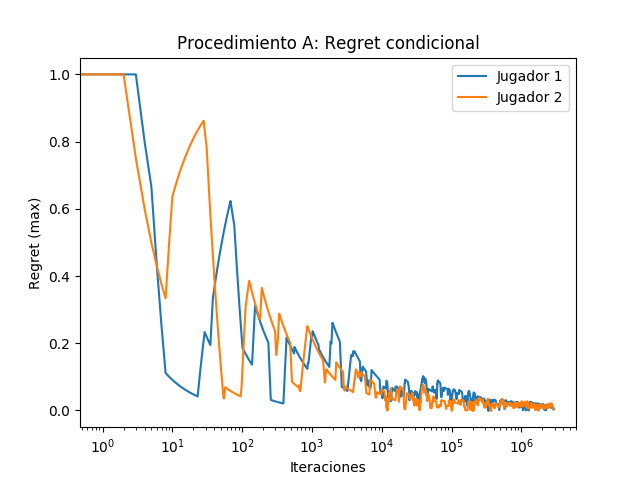
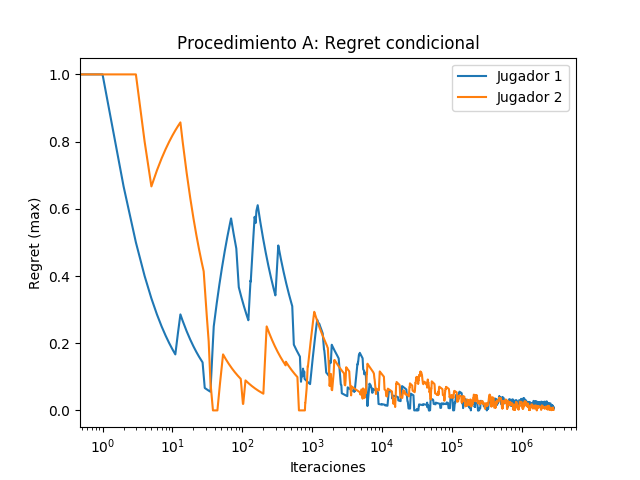
Correciones, capítulo 2

Changed region(s): [[0.1562, 0.1562, 0.875, 0.875], [0.4688, 0.9062, 0.5, 0.9375]]

diff --git a/capitulo-2/resultados.tex b/capitulo-2/resultados.tex
@@ -5,27 +5,27 @@ Para todos los juegos, con excepción del juego Coronel Blotto, se presenta una 
 \begin{alignat}{1}
 min_{s_{-i} \in S_{-i}} u_i(\sigma_i, s_{-i})
 \end{alignat}
-Donde $u_i(\sigma_i, s_{-i})$ representa la utilidad esperada del jugador $i$, cuando juega con la estrategia mixta $\sigma_i$ y su oponente juega con la estrategia pura $s_i$. Estos valores son representados con las variables $v_1$ y $v_2$ en cada una de las tablas con las estrategias respectivas.
+Donde $u_i(\sigma_i, s_{-i})$ representa la utilidad esperada del jugador $i$, cuando juega con la estrategia mixta $\sigma_i$ y su oponente juega con la estrategia pura $s_{-i}$. Estos valores son representados con las variables $v_1$ y $v_2$ en cada una de las tablas con las estrategias respectivas.
 
-Por otra parte, para todos los juegos se presenta una tabla que indica el tiempo de cada corrida ($T$), el número de iteraciones para alcanzar la cota deseada ($I$) y el tiempo promedio de cada iteración en cada una de las corridas ($T/I$), así como el promedio del tiempo y del número de iteraciones para cada procedimiento. Además, también se muestran las gráficas del regret por iteraciones, para observar su convergencia. Estas gráficas se presentan en una escala logarítmica en el eje $x$ para apreciar mejor los resultados.
+Por otra parte, para todos los juegos se presenta una tabla que indica el tiempo de cada corrida ($T$), el número de iteraciones para alcanzar la cota deseada ($I$) y el tiempo promedio de cada iteración en cada una de las corridas ($T/I$), así como el promedio del tiempo y del número de iteraciones para cada procedimiento. Además, también se muestran las gráficas del \textit{regret} por iteraciones, para observar su convergencia. Estas gráficas se presentan en una escala logarítmica en el eje $x$ para apreciar mejor los resultados.
 
 \subsection{Matching Pennies}
-En este juego ambos jugadores pueden garantizar una utilidad esperada de $0$, sin importar la estrategia utilizada por su oponente, que se obtiene al jugar con una estrategia de $0.5$ para ambas acciones posibles de cada jugador. Las estrategias obtenidas no corresponden al equilibrio de Nash exacto, sin embargo, garantizan una utilidad cercana a $0$ en todos los casos, siendo la más baja igual a $-0.01$, como se muestra en la Tabla \ref{tab:estrategias-matching-pennies}.
+En este juego ambos jugadores pueden garantizar una utilidad esperada de $0$, sin importar la estrategia utilizada por su oponente, que se obtiene al jugar con una estrategia de $0.5$ para ambas acciones posibles de cada jugador. Las estrategias obtenidas no corresponden al equilibrio de Nash exacto, sin embargo, garantizan una utilidad cercana a $0$ en todos los casos, siendo la más baja igual a $-0.008$, como se muestra en la Tabla \ref{tab:estrategias-matching-pennies}.
 
 \begin{table}[ht]
     \centering
     \begin{tabular}{c|c|c|c|c}
         & E.N. & A & B & C \\ \hline
-        $\sigma_1$   & $(0.500, 0.500)$ & $( 0.505, 0.495)$ & $( 0.504, 0.496)$ & $(0.500,  0.500)$ \\
-        $\sigma_2$   & $(0.500, 0.500)$ & $( 0.500, 0.500)$ & $( 0.500, 0.500)$ & $(0.505,  0.495)$ \\ \hline
-        $(v_1, v_2)$ & $(0.000, 0.000)$ & $(-0.010, 0.000)$ & $(-0.008, 0.000)$ & $(0.000, -0.010)$ \\ \hline
+        $\sigma_1$   & $(0.500, 0.500)$ & $(0.500, 0.500)$ & $(0.500, 0.500)$ & $(0.500,  0.500)$ \\
+        $\sigma_2$   & $(0.500, 0.500)$ & $(0.497, 0.503)$ & $(0.503, 0.497)$ & $(0.504,  0.496)$ \\ \hline
+        $(v_1, v_2)$ & $(0.000, 0.000)$ & $(0.000, -0.006)$ & $(0.000, -0.006)$ & $(0.000, -0.008)$ \\ \hline
     \end{tabular}
     \caption{Estrategias obtenidas del juego Matching Pennies}
     \label{tab:estrategias-matching-pennies}
 \end{table}
 
 
-La Tabla \ref{tab:resultados-matching-pennies} muestra los resultados obtenidos relacionados al tiempo y número de iteraciones de los procedimientos. El procedimiento A, regret condicional, tuvo una duración promedio de $85.314$ segundos, con un número promedio de iteraciones de $5609971.5$, obteniendo un promedio de $1.52 {\times} 10^{-5}$ segundos por iteración. Con el procedimiento B, que utiliza un vector invariante de probabilidad, se obtuvo un tiempo, número de iteraciones y tiempo por iteración promedios de $3.503$ segundos, $30277.9$ iteraciones y $1.16 {\times} 10^{-4}$ segundos por iteración, respectivamente. Por último, el procedimiento C, regret incondicional, se obtuvo un tiempo promedio de $0.217$, el número de iteraciones promedio fue de $14806.8$, obteniendo un promedio de $1.47 {\times} 10^{-5}$ segundos por iteración. 
+La Tabla \ref{tab:resultados-matching-pennies} muestra los resultados obtenidos relacionados al tiempo y número de iteraciones de los procedimientos. El procedimiento A, regret condicional, tuvo una duración promedio de $10.276$ segundos, con un número promedio de iteraciones de $3892550.4$, obteniendo un promedio de $2.64 {\times} 10^{-6}$ segundos por iteración. Con el procedimiento B, que utiliza un vector invariante de probabilidad, se obtuvo un tiempo, número de iteraciones y tiempo por iteración promedios de $3.777$ segundos, $25616.6$ iteraciones y $3.03 {\times} 10^{-5}$ segundos por iteración, respectivamente. Por último, el procedimiento C, regret incondicional, se obtuvo un tiempo promedio de $0.042$, el número de iteraciones promedio fue de $16260.5$, obteniendo un promedio de $2.58 {\times} 10^{-6}$ segundos por iteración. 
 
 \begin{table}[ht]
 \scriptsize
@@ -33,23 +33,23 @@ La Tabla \ref{tab:resultados-matching-pennies} muestra los resultados obtenidos 
     \begin{tabular}{r r r | r r r | r r r}
     \multicolumn{3}{c}{A} & \multicolumn{3}{c}{B} & \multicolumn{3}{c}{C} \\ \hline
     $T$ & $I$ & $T/I$ & $T$ & $I$ & $T/I$ & $T$ & $I$ & $T/I$ \\  \hline
-    $375.559$ & $24597798$ & $1.53 {\times} 10 ^{-5}$ & $10.616$ & $91683$ & $1.16 {\times} 10 ^{-4}$ & $0.155$ & $10553$ & $1.47 {\times} 10 ^{-5}$ \\
-    $20.442$ & $1349708$ & $1.51 {\times} 10 ^{-5}$ & $2.407$ & $20797$ & $1.16 {\times} 10 ^{-4}$ & $0.173$ & $11847$ & $1.46 {\times} 10 ^{-5}$ \\
-    $22.030$ & $1455882$ & $1.51 {\times} 10 ^{-5}$ & $1.465$ & $12674$ & $1.16 {\times} 10 ^{-4}$ & $0.048$ & $3302$ & $1.46 {\times} 10 ^{-5}$ \\
-    $39.273$ & $2591911$ & $1.52 {\times} 10 ^{-5}$ & $0.529$ & $4576$ & $1.16 {\times} 10 ^{-4}$ & $0.047$ & $3201$ & $1.46 {\times} 10 ^{-5}$ \\
-    $141.703$ & $9307528$ & $1.52 {\times} 10 ^{-5}$ & $9.403$ & $81270$ & $1.16 {\times} 10 ^{-4}$ & $0.373$ & $25370$ & $1.47 {\times} 10 ^{-5}$ \\
-    $73.271$ & $4837112$ & $1.51 {\times} 10 ^{-5}$ & $1.453$ & $12570$ & $1.16 {\times} 10 ^{-4}$ & $0.453$ & $30866$ & $1.47 {\times} 10 ^{-5}$ \\
-    $21.917$ & $1451479$ & $1.51 {\times} 10 ^{-5}$ & $0.692$ & $6017$ & $1.15 {\times} 10 ^{-4}$ & $0.147$ & $10040$ & $1.47 {\times} 10 ^{-5}$ \\
-    $10.238$ & $678965$ & $1.51 {\times} 10 ^{-5}$ & $4.205$ & $36371$ & $1.16 {\times} 10 ^{-4}$ & $0.263$ & $17963$ & $1.46 {\times} 10 ^{-5}$ \\
-    $61.776$ & $4087347$ & $1.51 {\times} 10 ^{-5}$ & $2.201$ & $19018$ & $1.16 {\times} 10 ^{-4}$ & $0.193$ & $13176$ & $1.47 {\times} 10 ^{-5}$ \\
-    $86.932$ & $5741985$ & $1.51 {\times} 10 ^{-5}$ & $2.057$ & $17803$ & $1.16 {\times} 10 ^{-4}$ & $0.319$ & $21750$ & $1.47 {\times} 10 ^{-5}$ \\ \hline
-    $85.314$ & $5609971.5$ & $1.52 {\times} 10 ^{-5}$ & $3.503$ & $30277.9$ & $1.16 {\times} 10 ^{-4}$ & $0.217$ & $14806.8$ & $1.47 {\times} 10 ^{-5}$ \\ \hline
+	$7.663$ & $3068341$ & $2.50 {\times} 10^{-06}$ & $0.985$ & $32510$ & $3.03 {\times} 10^{-05}$ & $0.002$ & $955$ & $2.53 {\times} 10^{-06}$ \\
+	$9.650$ & $3857071$ & $2.50 {\times} 10^{-06}$ & $1.748$ & $56946$ & $3.07 {\times} 10^{-05}$ & $0.064$ & $24968$ & $2.55 {\times} 10^{-06}$ \\
+	$23.313$ & $8950013$ & $2.60 {\times} 10^{-06}$ & $0.552$ & $18401$ & $3.00 {\times} 10^{-05}$ & $0.061$ & $23854$ & $2.57 {\times} 10^{-06}$ \\
+	$11.757$ & $4240611$ & $2.77 {\times} 10^{-06}$ & $0.309$ & $10197$ & $3.03 {\times} 10^{-05}$ & $0.025$ & $9724$ & $2.57 {\times} 10^{-06}$ \\
+	$2.377$ & $877335$ & $2.71 {\times} 10^{-06}$ & $0.747$ & $24892$ & $3.00 {\times} 10^{-05}$ & $0.011$ & $4188$ & $2.59 {\times} 10^{-06}$ \\
+	$5.062$ & $1818992$ & $2.78 {\times} 10^{-06}$ & $0.848$ & $28142$ & $3.01 {\times} 10^{-05}$ & $0.025$ & $9666$ & $2.60 {\times} 10^{-06}$ \\
+	$4.281$ & $1557496$ & $2.75 {\times} 10^{-06}$ & $0.132$ & $4405$ & $3.01 {\times} 10^{-05}$ & $0.045$ & $16951$ & $2.64 {\times} 10^{-06}$ \\
+	$22.110$ & $8230100$ & $2.69 {\times} 10^{-06}$ & $1.307$ & $43116$ & $3.03 {\times} 10^{-05}$ & $0.021$ & $8155$ & $2.64 {\times} 10^{-06}$ \\
+	$3.691$ & $1432846$ & $2.58 {\times} 10^{-06}$ & $0.639$ & $21311$ & $3.00 {\times} 10^{-05}$ & $0.093$ & $35270$ & $2.64 {\times} 10^{-06}$ \\
+	$12.853$ & $4892699$ & $2.63 {\times} 10^{-06}$ & $0.500$ & $16246$ & $3.08 {\times} 10^{-05}$ & $0.076$ & $28874$ & $2.64 {\times} 10^{-06}$ \\ \hline
+	$10.276$ & $3892550.4$ & $2.64 {\times} 10^{-06}$ & $0.777$ & $25616.6$ & $3.03 {\times} 10^{-05}$ & $0.042$ & $16260.5$ & $2.58 {\times} 10^{-06}$ \\ \hline
     \end{tabular}
     \caption{Resultados del juego Matching Pennies}
     \label{tab:resultados-matching-pennies}
 \end{table}
 
-La Figura \ref{fig:regret-matching-pennies} muestra el regret incondicional con respecto al tiempo de la última corrida, para los $3$ procedimientos.
+La Figura \ref{fig:regret-matching-pennies} muestra el regret incondicional con respecto al tiempo de la última corrida, para los $3$ procedimientos. Se observa que en todos los casos el \textit{regret} total de cada jugador converge a cero.
 
 \begin{figure}[ht]
 \caption{Gráficas del regret con respecto al número de iteraciones del juego Matching Pennies}
@@ -69,39 +69,38 @@ En este juego, al igual que en el anterior, ambos jugadores pueden garantizar un
     \scriptsize
     \begin{tabular}{c|c|c|c|c}
         & E.N. & A & B & C \\ \hline
-        $\sigma_1$ &  $(0.333, 0.333, 0.333)$ & $(0.330, 0.333, 0.337)$ & $(0.333, 0.333, 0.333)$ & $(0.333, 0.334, 0.333)$ \\
-        $\sigma_2$ &  $(0.333, 0.333, 0.333)$ & $(0.335, 0.330, 0.335)$ & $(0.333, 0.333, 0.333)$ & $(0.335, 0.338, 0.327)$ \\ \hline
-        $(v_1, v_2)$ & $(0.000, 0.000)$ & $(-0.004, -0.005)$ & $(0.000, 0.000)$ & $(-0.001, -0.008)$ \\ \hline
+        $\sigma_1$ &  $(0.333, 0.333, 0.333)$ & $(0.332, 0.335, 0.332)$ & $(0.330, 0.334, 0.336)$ & $(0.333, 0.337, 0.330)$ \\
+        $\sigma_2$ &  $(0.333, 0.333, 0.333)$ & $(0.331, 0.334, 0.335)$ & $(0.329, 0.335, 0.337)$ & $(0.336, 0.330, 0.335)$ \\ \hline
+        $(v_1, v_2)$ & $(0.000, 0.000)$ & $(-0.003, -0.003)$ & $(-0.004, -0.006)$ & $(-0.004, -0.005)$ \\ \hline
     \end{tabular}
     \caption{Estrategias obtenidas del juego Piedra, Papel o Tijeras}
     \label{tab:estrategias-RPS}
 \end{table}
 
-La Tabla \ref{tab:resultados-RPS} muestra los resultados obtenidos relacionados al tiempo y número de iteraciones de los procedimientos. El procedimiento A, regret condicional, tuvo una duración promedio de $56.231$ segundos, con un número promedio de iteraciones de $3671952.7$, obteniendo un promedio de $1.53 {\times} 10^{-5}$ segundos por iteración. Con el procedimiento B, que utiliza un vector invariante de probabilidad, se obtuvo un tiempo, número de iteraciones y tiempo por iteración promedios de $1.732$ segundos, $1007$ iteraciones y $1.73 {\times} 10^{-4}$ segundos por iteración, respectivamente. Por último, el procedimiento C, regret incondicional, se obtuvo un tiempo promedio de $0.449$, el número de iteraciones promedio fue de $30293.6$, obteniendo un promedio de $1.48 {\times} 10^{-5}$ segundos por iteración.
+La Tabla \ref{tab:resultados-RPS} muestra los resultados obtenidos relacionados al tiempo y número de iteraciones de los procedimientos. El procedimiento A, \textit{regret} condicional, tuvo una duración promedio de $25.715$ segundos, con un número promedio de iteraciones de $4519054.1$, obteniendo un promedio de $2.7 {\times} 10^{-6}$ segundos por iteración. Con el procedimiento B, que utiliza un vector invariante de probabilidad, se obtuvo un tiempo, número de iteraciones y tiempo por iteración promedios de $0.345$ segundos, $6601.3$ iteraciones y $5.23 {\times} 10^{-5}$ segundos por iteración, respectivamente. Por último, el procedimiento C, \textit{regret} incondicional, se obtuvo un tiempo promedio de $0.049$, el número de iteraciones promedio fue de $19321.1$, obteniendo un promedio de $2.54 {\times} 10^{-6}$ segundos por iteración.
 
 \begin{table}[ht]
     \scriptsize
     \centering
     \begin{tabular}{r r r | r r r | r r r}
     \multicolumn{3}{c}{A} & \multicolumn{3}{c}{B} & \multicolumn{3}{c}{C} \\ \hline
-    $T$ & $I$ & $T/I$ & $T$ & $I$ & $T/I$ & $T$ & $I$ & $T/I$ \\  \hline
-    $64.6323$ & $4222223$ & $1.53 {\times} 10 ^{-5}$ & $0.000448982$ & $3$ & $1.50 {\times} 10 ^{-4}$ & $0.913989$ & $61642$ & $1.48 {\times} 10 ^{-5}$ \\
-    $23.6302$ & $1549016$ & $1.53 {\times} 10 ^{-5}$ & $3.53961$ & $20371$ & $1.74 {\times} 10 ^{-4}$ & $0.16622$ & $11228$ & $1.48 {\times} 10 ^{-5}$ \\
-    $99.8796$ & $6513228$ & $1.53 {\times} 10 ^{-5}$ & $0.774109$ & $4494$ & $1.72 {\times} 10 ^{-4}$ & $0.722437$ & $48801$ & $1.48 {\times} 10 ^{-5}$ \\
-    $79.7865$ & $5192787$ & $1.54 {\times} 10 ^{-5}$ & $0.684216$ & $3951$ & $1.73 {\times} 10 ^{-4}$ & $0.314035$ & $21037$ & $1.49 {\times} 10 ^{-5}$ \\
-    $23.5387$ & $1544402$ & $1.52 {\times} 10 ^{-5}$ & $0.000385862$ & $3$ & $1.29 {\times} 10 ^{-4}$ & $0.394145$ & $26588$ & $1.48 {\times} 10 ^{-5}$ \\
-    $15.1729$ & $998763$ & $1.52 {\times} 10 ^{-5}$ & $0.000436849$ & $3$ & $1.46 {\times} 10 ^{-4}$ & $0.362224$ & $24441$ & $1.48 {\times} 10 ^{-5}$ \\
-    $49.3657$ & $3234372$ & $1.53 {\times} 10 ^{-5}$ & $6.0129$ & $34711$ & $1.73 {\times} 10 ^{-4}$ & $0.249781$ & $16869$ & $1.48 {\times} 10 ^{-5}$ \\
-    $37.4907$ & $2448062$ & $1.53 {\times} 10 ^{-5}$ & $2.32126$ & $13362$ & $1.74 {\times} 10 ^{-4}$ & $0.620189$ & $41841$ & $1.48 {\times} 10 ^{-5}$ \\
-    $124.844$ & $8144322$ & $1.53 {\times} 10 ^{-5}$ & $3.98568$ & $23166$ & $1.72 {\times} 10 ^{-4}$ & $0.369477$ & $24980$ & $1.48 {\times} 10 ^{-5}$ \\
-    $43.9675$ & $2872352$ & $1.53 {\times} 10 ^{-5}$ & $0.00085012$ & $6$ & $1.42 {\times} 10 ^{-4}$ & $0.378752$ & $25509$ & $1.48 {\times} 10 ^{-5}$ \\ \hline
-    $56.231$ & $3671952.7$ & $1.53 {\times} 10 ^{-5}$ & $1.732$ & $10007$ & $1.73 {\times} 10 ^{-4}$ & $0.449$ & $30293.6$ & $1.48 {\times} 10 ^{-5}$ \\\hline
+    $25.715$ & $9107389$ & $2.82 {\times} 10^{-06}$ & $0.724$ & $13750$ & $5.26 {\times} 10^{-05}$ & $0.034$ & $12967$ & $2.64 {\times} 10^{-06}$ \\
+    $29.494$ & $10951479$ & $2.69 {\times} 10^{-06}$ & $0.692$ & $13257$ & $5.22 {\times} 10^{-05}$ & $0.041$ & $16096$ & $2.57 {\times} 10^{-06}$ \\
+    $7.015$ & $2641656$ & $2.66 {\times} 10^{-06}$ & $0.000$ & $6$ & $4.36 {\times} 10^{-05}$ & $0.063$ & $24423$ & $2.56 {\times} 10^{-06}$ \\
+    $4.610$ & $1748365$ & $2.64 {\times} 10^{-06}$ & $0.849$ & $16255$ & $5.22 {\times} 10^{-05}$ & $0.048$ & $18613$ & $2.56 {\times} 10^{-06}$ \\
+    $8.051$ & $3033028$ & $2.65 {\times} 10^{-06}$ & $0.000$ & $3$ & $4.28 {\times} 10^{-05}$ & $0.082$ & $32222$ & $2.55 {\times} 10^{-06}$ \\
+    $9.870$ & $3717278$ & $2.66 {\times} 10^{-06}$ & $0.000$ & $3$ & $4.28 {\times} 10^{-05}$ & $0.084$ & $33042$ & $2.54 {\times} 10^{-06}$ \\
+    $2.749$ & $1037895$ & $2.65 {\times} 10^{-06}$ & $0.000$ & $3$ & $4.06 {\times} 10^{-05}$ & $0.049$ & $19316$ & $2.55 {\times} 10^{-06}$ \\
+    $11.971$ & $4517546$ & $2.65 {\times} 10^{-06}$ & $0.556$ & $10644$ & $5.23 {\times} 10^{-05}$ & $0.024$ & $9601$ & $2.54 {\times} 10^{-06}$ \\
+    $14.974$ & $5606070$ & $2.67 {\times} 10^{-06}$ & $0.000$ & $3$ & $3.74 {\times} 10^{-05}$ & $0.014$ & $5621$ & $2.55 {\times} 10^{-06}$ \\
+    $7.532$ & $2829835$ & $2.66 {\times} 10^{-06}$ & $0.631$ & $12089$ & $5.22 {\times} 10^{-05}$ & $0.054$ & $21310$ & $2.55 {\times} 10^{-06}$ \\ \hline
+    $12.198$ & $4519054.1$ & $2.70 {\times} 10^{-06}$ & $0.345$ & $6601.3$ & $5.23 {\times} 10^{-05}$ & $0.049$ & $19321.1$ & $2.54 {\times} 10^{-06}$ \\ \hline
     \end{tabular}
     \caption{Resultados del juego Piedra, Papel o Tijeras}
     \label{tab:resultados-RPS}
 \end{table}
 
-La Figura \ref{fig:regret-RPS} muestra el regret incondicional con respecto al tiempo de la última corrida para los procedimientos A, B y C.
+La Figura \ref{fig:regret-RPS} muestra el regret incondicional con respecto al tiempo de la última corrida para los procedimientos A, B y C. Se observa como el \textit{regret} total de ambos jugadores converge a cero.
 
 \begin{figure}[ht]
 \caption{Gráficas del regret con respecto al número de iteraciones del juego Piedra, Papel o Tijera}
@@ -114,7 +113,7 @@ La Figura \ref{fig:regret-RPS} muestra el regret incondicional con respecto al t
 
 \subsection{Dominó}
 
-En este juego, el primer jugador puede garantizar una ganancia esperada de, al menos $1/3$, por lo que el segundo jugador puede garantizar no perder más de $1/3$. A diferencia de los juegos anteriores, la matriz de pagos de este juegos no es simétrica y el primer jugador tiene ventaja sobre el segundo. Además, este juego no tiene un equilibrio de Nas único. En la Tabla \ref{tab:estrategias-RPS} se observa que las estrategias obtenidas para el primer jugador le permiten obtener una ganancia esperada de $0.330$, $0.326$ y $0.329$, respectivamente para los procedimientos A, B y C. Todos estos valores son menores que $1/3$, pero con una diferencia menor que $0.01$. Por otra parte el segundo jugador puede garantizar un valor esperado no menor que $-0.338$, $-0.335$, $-0.335$.
+En este juego, el primer jugador puede garantizar una ganancia esperada de, al menos $1/3$, por lo que el segundo jugador puede garantizar no perder más de $1/3$. A diferencia de los juegos anteriores, la matriz de pagos de este juegos no es simétrica y el primer jugador tiene ventaja sobre el segundo. Además, este juego no tiene un equilibrio de Nash único. En la Tabla \ref{tab:estrategias-RPS} se observa que las estrategias obtenidas para el primer jugador le permiten obtener una ganancia esperada al menos de $0.330$, $0.326$ y $0.329$, respectivamente para los procedimientos A, B y C. Todos estos valores son menores que $1/3$, pero con una diferencia menor que $0.01$. Por otra parte el segundo jugador puede garantizar un valor esperado no menor que $-0.338$, $-0.335$, $-0.335$.
 
 \begin{table}[ht]
     \centering
@@ -126,59 +125,59 @@ En este juego, el primer jugador puede garantizar una ganancia esperada de, al m
         & $\sigma_2$ & $(0.333, 0.000, 0.333, 0.000, 0.333, 0.000)$ &  $-0.333$\\
         \hline
         \multirow{2}{*}{A}
-        & $\sigma_1$ & $(0.149, 0.152, 0.115, 0.114, 0.181, 0.069, 0.220)$ & $0.330$ \\
-        & $\sigma_2$ & $(0.187, 0.148, 0.186, 0.147, 0.186, 0.147)$ & $-0.338$\\
+        & $\sigma_1$ & $(0.136, 0.137, 0.116, 0.118, 0.198, 0.081, 0.214)$ & $0.328$ \\
+        & $\sigma_2$ & $(0.165, 0.171, 0.163, 0.166, 0.166, 0.169)$ & $-0.338$\\
         \hline
         \multirow{2}{*}{B}
-        & $\sigma_1$ & $(0.143, 0.145, 0.138, 0.136, 0.192, 0.050, 0.196)$ & $0.326$ \\
-        & $\sigma_2$ & $(0.167, 0.165, 0.168, 0.163, 0.167, 0.168)$ & $-0.335$\\
+        & $\sigma_1$ & $(0.121, 0.118, 0.135, 0.137, 0.214, 0.078, 0.198)$ & $0.331$ \\
+        & $\sigma_2$ & $(0.157, 0.178, 0.156, 0.177, 0.157, 0.175)$ & $-0.335$\\
         \hline
         \multirow{2}{*}{C}
-        & $\sigma_1$ & $(0.128, 0.130, 0.135, 0.134, 0.202, 0.071, 0.201)$ & $0.329$ \\
-        & $\sigma_2$ & $(0.158, 0.177, 0.157, 0.175, 0.158, 0.176)$ & $-0.335$\\
+        & $\sigma_1$ & $(0.128, 0.128, 0.129, 0.134, 0.208, 0.073, 0.202)$ & $0.330$ \\
+        & $\sigma_2$ & $(0.169, 0.165, 0.168, 0.164, 0.169, 0.165)$ & $-0.334$\\
         \hline
     \end{tabular}
     \caption{Estrategias obtenidas del juego Dominó}
     \label{tab:estrategias-domino}
 \end{table}
 
-La Tabla \ref{tab:resultados-domino} muestra los resultados obtenidos relacionados al tiempo y número de iteraciones de los procedimientos de este juego. El procedimiento A, regret condicional, tuvo una duración promedio de $1520.421$ segundos, con un número promedio de iteraciones de $91116271.5$, obteniendo un promedio de $1.67 {\times} 10^{-5}$ segundos por iteración. Con el procedimiento B, que utiliza un vector invariante de probabilidad, se obtuvo un tiempo, número de iteraciones y tiempo por iteración promedios de $28.381$ segundos, $63267.8$ iteraciones y $4.49 {\times} 10^{-4}$ segundos por iteración, respectivamente. Por último, el procedimiento C, regret incondicional, se obtuvo un tiempo promedio de $1.510098$, el número de iteraciones promedio fue de $95233.3$, obteniendo un promedio de $1.59 {\times} 10^{-5}$ segundos por iteración. 
+La Tabla \ref{tab:resultados-domino} muestra los resultados obtenidos relacionados al tiempo y número de iteraciones de los procedimientos de este juego. El procedimiento A, regret condicional, tuvo una duración promedio de $319.179$ segundos, con un número promedio de iteraciones de $108319272.4$, obteniendo un promedio de $2.95 {\times} 10^{-6}$ segundos por iteración. Con el procedimiento B, que utiliza un vector invariante de probabilidad, se obtuvo un tiempo, número de iteraciones y tiempo por iteración promedios de $11.275$ segundos, $75250.2$ iteraciones y $1.5 {\times} 10^{-4}$ segundos por iteración, respectivamente. Por último, el procedimiento C, regret incondicional, se obtuvo un tiempo promedio de $0.237$, el número de iteraciones promedio fue de $84318.5$, obteniendo un promedio de $2.81 {\times} 10^{-6}$ segundos por iteración. 
 
 \begin{table}[ht]
    \scriptsize
     \centering
     \begin{tabular}{r r r | r r r | r r r}
     \multicolumn{3}{c}{A} & \multicolumn{3}{c}{B} & \multicolumn{3}{c}{C} \\ \hline
-    $T$ & $I$ & $T/I$ & $T$ & $I$ & $T/I$ & $T$ & $I$ & $T/I$ \\  \hline
-    $740.447$ & $44412293$ & $1.67 {\times} 10 ^{-5}$ & $23.2266$ & $51679$ & $4.49 {\times} 10 ^{-4}$ & $1.41241$ & $89150$ & $1.58 {\times} 10 ^{-5}$ \\
-    $1153.83$ & $69255567$ & $1.67 {\times} 10 ^{-5}$ & $33.3787$ & $74447$ & $4.48 {\times} 10 ^{-4}$ & $1.84509$ & $116261$ & $1.59 {\times} 10 ^{-5}$ \\
-    $1344.98$ & $80595152$ & $1.67 {\times} 10 ^{-5}$ & $70.0653$ & $156038$ & $4.49 {\times} 10 ^{-4}$ & $2.13461$ & $134489$ & $1.59 {\times} 10 ^{-5}$ \\
-    $2678.05$ & $160284767$ & $1.67 {\times} 10 ^{-5}$ & $23.2227$ & $51886$ & $4.48 {\times} 10 ^{-4}$ & $0.76709$ & $48213$ & $1.59 {\times} 10 ^{-5}$ \\
-    $1091.08$ & $65511893$ & $1.67 {\times} 10 ^{-5}$ & $26.4452$ & $59056$ & $4.48 {\times} 10 ^{-4}$ & $0.334749$ & $21221$ & $1.58 {\times} 10 ^{-5}$ \\
-    $365.475$ & $22030226$ & $1.66 {\times} 10 ^{-5}$ & $19.1969$ & $42825$ & $4.48 {\times} 10 ^{-4}$ & $1.98904$ & $125803$ & $1.58 {\times} 10 ^{-5}$ \\
-    $2096.08$ & $125780618$ & $1.67 {\times} 10 ^{-5}$ & $14.4957$ & $32291$ & $4.49 {\times} 10 ^{-4}$ & $1.33082$ & $83575$ & $1.59 {\times} 10 ^{-5}$ \\
-    $2835.32$ & $169464746$ & $1.67 {\times} 10 ^{-5}$ & $24.0569$ & $53610$ & $4.49 {\times} 10 ^{-4}$ & $2.35906$ & $148921$ & $1.58 {\times} 10 ^{-5}$ \\
-    $1765.15$ & $105855204$ & $1.67 {\times} 10 ^{-5}$ & $27.2148$ & $60743$ & $4.48 {\times} 10 ^{-4}$ & $0.626211$ & $38952$ & $1.61 {\times} 10 ^{-5}$ \\
-    $1133.8$ & $67972249$ & $1.67 {\times} 10 ^{-5}$ & $22.5033$ & $50103$ & $4.49 {\times} 10 ^{-4}$ & $2.3019$ & $145748$ & $1.58 {\times} 10 ^{-5}$ \\\hline
-    $1520.421$ & $91116271.5$ & $1.67 {\times} 10 ^{-5}$ & $28.381$ & $63267.8$ & $4.49 {\times} 10 ^{-4}$ & $1.510098$ & $95233.3$ & $1.59 {\times} 10 ^{-5}$ \\ \hline
+	$669.839$ & $215859538$ & $3.10 {\times} 10^{-06}$ & $4.458$ & $29721$ & $1.50 {\times} 10^{-04}$ & $0.188$ & $66700$ & $2.81 {\times} 10^{-06}$ \\
+	$309.685$ & $117568373$ & $2.63 {\times} 10^{-06}$ & $9.019$ & $60333$ & $1.49 {\times} 10^{-04}$ & $0.260$ & $92401$ & $2.82 {\times} 10^{-06}$ \\
+	$399.170$ & $152612646$ & $2.62 {\times} 10^{-06}$ & $3.646$ & $24338$ & $1.50 {\times} 10^{-04}$ & $0.212$ & $75674$ & $2.81 {\times} 10^{-06}$ \\
+	$131.570$ & $38097125$ & $3.45 {\times} 10^{-06}$ & $12.996$ & $86898$ & $1.50 {\times} 10^{-04}$ & $0.145$ & $51776$ & $2.80 {\times} 10^{-06}$ \\
+	$263.482$ & $96741015$ & $2.72 {\times} 10^{-06}$ & $4.516$ & $30170$ & $1.50 {\times} 10^{-04}$ & $0.134$ & $47862$ & $2.80 {\times} 10^{-06}$ \\
+	$203.854$ & $77156602$ & $2.64 {\times} 10^{-06}$ & $15.420$ & $103021$ & $1.50 {\times} 10^{-04}$ & $0.385$ & $136950$ & $2.81 {\times} 10^{-06}$ \\
+	$201.267$ & $76467409$ & $2.63 {\times} 10^{-06}$ & $17.399$ & $115935$ & $1.50 {\times} 10^{-04}$ & $0.351$ & $124882$ & $2.81 {\times} 10^{-06}$ \\
+	$316.007$ & $97849871$ & $3.23 {\times} 10^{-06}$ & $17.266$ & $115056$ & $1.50 {\times} 10^{-04}$ & $0.203$ & $72315$ & $2.81 {\times} 10^{-06}$ \\
+	$383.736$ & $110341861$ & $3.48 {\times} 10^{-06}$ & $12.805$ & $85532$ & $1.50 {\times} 10^{-04}$ & $0.271$ & $96438$ & $2.81 {\times} 10^{-06}$ \\
+	$313.177$ & $100498284$ & $3.12 {\times} 10^{-06}$ & $15.227$ & $101498$ & $1.50 {\times} 10^{-04}$ & $0.220$ & $78187$ & $2.81 {\times} 10^{-06}$ \\ \hline
+	$319.179$ & $108319272.4$ & $2.95 {\times} 10^{-06}$ & $11.275$ & $75250.2$ & $1.50 {\times} 10^{-04}$ & $0.237$ & $84318.5$ & $2.81 {\times} 10^{-06}$ \\ \hline
     \end{tabular}
     \caption{Resultados del juego Dominó}
     \label{tab:resultados-domino}
 \end{table}
 
-La Figura \ref{fig:regret-domino} muestra el regret incondicional con respecto al tiempo de la última corrida, para los procedimientos B y C.
+La Figura \ref{fig:regret-domino} muestra el regret incondicional con respecto al tiempo de la última corrida, para los procedimientos A, B y C. Se observa como el \textit{regret} total va a cero para ambos jugadores.
 
 \begin{figure}[ht]
 \caption{Gráficas del regret con respecto al número de iteraciones del juego Dominó}
 \label{fig:regret-domino}
 \centering
-\includegraphics[width=0.4\textwidth]{graficas/domino/procedimiento-B.png}
-\includegraphics[width=0.4\textwidth]{graficas/domino/procedimiento-C.png}
+\includegraphics[width=0.327\textwidth]{graficas/domino/procedimiento-A.png}
+\includegraphics[width=0.327\textwidth]{graficas/domino/procedimiento-B.png}
+\includegraphics[width=0.327\textwidth]{graficas/domino/procedimiento-C.png}
 \end{figure}
 
 \subsection{Coronel Blotto}
 
-En este juego no se tiene un equilibrio de Nash exacto como referencia. Sin embargo, como la matriz de pagos es simétrica, el valor del juego debe ser $0$, así que las estrategias obtenidas, que se muestran en la Tabla \ref{tab:estrategias-coronel-blotto} deben garantizar un valor esperado cercano a $0$. 
+En este juego no se tiene un equilibrio de Nash exacto como referencia. Sin embargo, como la matriz de pagos es simétrica, el valor del juego debe ser $0$, así que las estrategias obtenidas, se mostradas en la Tabla \ref{tab:estrategias-coronel-blotto}, deben garantizar un valor esperado cercano a $0$. 
 
 \begin{table}[ht]
     \scriptsize
@@ -187,16 +186,16 @@ En este juego no se tiene un equilibrio de Nash exacto como referencia. Sin emba
         Estrategias \\
         \hline
         Procedimiento A \\ \hline
-         $(0, 0, 0.113, 0.127, 0, 0, 0, 0.113, 0, 0.097, 0, 0.105, 0, 0, 0.128, 0.092, 0.135, 0.087, 0, 0, 0)$ \\
-         $(0, 0, 0.134, 0.145, 0, 0, 0, 0.059, 0, 0.079, 0, 0.166, 0, 0, 0.114, 0.074, 0.123, 0.103, 0, 0, 0)$\\
+         $(0, 0, 0.126, 0.113, 0, 0, 0, 0.080, 0, 0.100, 0, 0.131, 0, 0.001, 0.111, 0.118, 0.094, 0.124, 0, 0, 0)$ \\
+         $(0, 0, 0.101, 0.109, 0, 0, 0, 0.116, 0, 0.139, 0, 0.132, 0, 0.002, 0.076, 0.076, 0.141, 0.106, 0, 0, 0)$\\
         \hline
         Procedimiento B \\ \hline
-         $(0, 0.001, 0.058, 0.132, 0, 0, 0, 0.149, 0, 0.133, 0.001, 0.12, 0.001, 0, 0.071, 0.061, 0.147, 0.124, 0, 0.001, 0)$ \\
-         $(0, 0.001, 0.147, 0.072, 0.001, 0, 0.001, 0.11, 0.001, 0.117, 0.001, 0.076, 0.002, 0.001, 0.141, 0.14, 0.119, 0.068, 0.002, 0.001, 0)$\\
+         $(0, 0.002, 0.093, 0.110, 0.001, 0, 0.002, 0.111, 0.001, 0.128, 0.001, 0.126, 0, 0.001, 0.076, 0.112, 0.088, 0.145, 0.001, 0.001, 0)$ \\
+         $(0, 0.001, 0.102, 0.107, 0.001, 0, 0.0, 0.154, 0.001, 0.099, 0, 0.055, 0.001, 0, 0.156, 0.113, 0.140, 0.069, 0.002, 0.001, 0)$\\
         \hline
         Procedimiento C \\ \hline
-         $(0, 0, 0.130, 0.091, 0, 0, 0, 0.108, 0, 0.109, 0, 0.093, 0, 0, 0.136, 0.137, 0.097, 0.099, 0, 0, 0)$ \\
-         $(0, 0, 0.115, 0.100, 0, 0, 0, 0.120, 0, 0.115, 0, 0.094, 0, 0, 0.120, 0.119, 0.116, 0.100, 0, 0, 0)$\\
+         $(0, 0, 0.119, 0.106, 0, 0, 0, 0.110, 0, 0.107, 0, 0.108, 0, 0, 0.122, 0.122, 0.117, 0.1, 0, 0, 0)$ \\
+         $(0, 0, 0.148, 0.096, 0, 0, 0, 0.099, 0, 0.095, 0, 0.093, 0, 0, 0.155, 0.126, 0.117, 0.070, 0, 0, 0)$\\
         \hline
     \end{tabular}
     \caption{Estrategias obtenidas del juego Coronel Blotto}
@@ -210,34 +209,32 @@ La Tabla \ref{tab:utilidades-coronel-blotto}, muestra que si los jugadores utili
     \begin{tabular}{c | c | r}
          & $u$ & $(v_1, v_2)$ \\ \hline
          E.N. & $0.000$ & $( 0.000,  0.000)$ \\
-         A    & $0.000$ & $(-0.004, -0.004)$\\
-         B    & $0.000$ & $(-0.004, -0.004)$ \\
-         C    & $0.000$ & $(-0.008, -0.002)$ \\ \hline
+         A    & $0.000$ & $(-0.008, -0.002)$\\
+         B    & $0.000$ & $(-0.007, -0.004)$ \\
+         C    & $0.000$ & $(-0.005, -0.004)$ \\ \hline
     \end{tabular}
     \caption{Utilidades de las estrategias del obtenidas del juego Coronel Blotto}
     \label{tab:utilidades-coronel-blotto}
 \end{table}
 
-La Tabla \ref{tab:resultados-coronel-blotto} muestra los resultados obtenidos relacionados al tiempo y número de iteraciones de los procedimientos de este juego. El procedimiento A, regret condicional, tuvo una duración promedio de $4460.816$ segundos, con un número promedio de iteraciones de $201963700.9$, obteniendo un promedio de $2.21 {\times} 10^{-5}$ segundos por iteración. Con el procedimiento B, que utiliza un vector invariante de probabilidad, se obtuvo un tiempo, número de iteraciones y tiempo por iteración promedios de $183.683$ segundos, $54061.6$ iteraciones y $3.4 {\times} 10^{-3}$ segundos por iteración, respectivamente. Por último, el procedimiento C, regret incondicional, se obtuvo un tiempo promedio de $0.9226949$, el número de iteraciones promedio fue de $47502.7$, obteniendo un promedio de $1.94 {\times} 10^{-5}$ segundos por iteración.
+La Tabla \ref{tab:resultados-coronel-blotto} muestra los resultados obtenidos relacionados al tiempo y número de iteraciones de los procedimientos de este juego. El procedimiento A, regret condicional, tuvo una duración promedio de $875.533$ segundos, con un número promedio de iteraciones de $190222305.3$, obteniendo un promedio de $4.60 {\times} 10^{-6}$ segundos por iteración. Con el procedimiento B, que utiliza un vector invariante de probabilidad, se obtuvo un tiempo, número de iteraciones y tiempo por iteración promedios de $79.358$ segundos, $66378.4$ iteraciones y $1.2 {\times} 10^{-3}$ segundos por iteración, respectivamente. Por último, el procedimiento C, regret incondicional, se obtuvo un tiempo promedio de $0.166$, el número de iteraciones promedio fue de $48613.5$, obteniendo un promedio de $3.41 {\times} 10^{-6}$ segundos por iteración.
 
 \begin{table}[ht]
    \scriptsize
     \centering
     \begin{tabular}{r r r | r r r | r r r}
     \multicolumn{3}{c}{A} & \multicolumn{3}{c}{B} & \multicolumn{3}{c}{C} \\ \hline
-    $T$ & $I$ & $T/I$ & $T$ & $I$ & $T/I$ & $T$ & $I$ & $T/I$ \\  \hline
-    $2871.6$ & $130323596$ & $2.20 {\times} 10 ^{-5}$ & $109.261$ & $32201$ & $3.39 {\times} 10 ^{-3}$ & $0.494761$ & $25426$ & $1.95 {\times} 10 ^{-5}$ \\
-$1633.43$ & $74141231$ & $2.20 {\times} 10 ^{-5}$ & $193.576$ & $56999$ & $3.40 {\times} 10 ^{-3}$ & $1.03274$ & $53146$ & $1.94 {\times} 10 ^{-5}$ \\
-$3434.98$ & $155510785$ & $2.21 {\times} 10 ^{-5}$ & $169.659$ & $49976$ & $3.39 {\times} 10 ^{-3}$ & $0.509352$ & $26220$ & $1.94 {\times} 10 ^{-5}$ \\
-$4208.34$ & $190446960$ & $2.21 {\times} 10 ^{-5}$ & $206.758$ & $60884$ & $3.40 {\times} 10 ^{-3}$ & $0.977793$ & $50374$ & $1.94 {\times} 10 ^{-5}$ \\
-$5864.62$ & $265417694$ & $2.21 {\times} 10 ^{-5}$ & $235.727$ & $69298$ & $3.40 {\times} 10 ^{-3}$ & $0.600027$ & $30860$ & $1.94 {\times} 10 ^{-5}$ \\
-$6106.85$ & $275955122$ & $2.21 {\times} 10 ^{-5}$ & $166.699$ & $48922$ & $3.41 {\times} 10 ^{-3}$ & $3.05444$ & $157144$ & $1.94 {\times} 10 ^{-5}$ \\
-$4764.86$ & $215484401$ & $2.21 {\times} 10 ^{-5}$ & $233.354$ & $68878$ & $3.39 {\times} 10 ^{-3}$ & $0.666394$ & $34392$ & $1.94 {\times} 10 ^{-5}$ \\
-$3869.74$ & $175100213$ & $2.21 {\times} 10 ^{-5}$ & $229.171$ & $67487$ & $3.40 {\times} 10 ^{-3}$ & $0.739529$ & $38154$ & $1.94 {\times} 10 ^{-5}$ \\
-$4167.24$ & $188764085$ & $2.21 {\times} 10 ^{-5}$ & $188.03$ & $55233$ & $3.40 {\times} 10 ^{-3}$ & $0.440414$ & $22649$ & $1.94 {\times} 10 ^{-5}$ \\
-$7687.1$ & $348492922$ & $2.21 {\times} 10 ^{-5}$ & $104.597$ & $30738$ & $3.40 {\times} 10 ^{-3}$ & $0.711499$ & $36662$ & $1.94 {\times} 10 ^{-5}$ \\ \hline
-$4460.876$ & $201963700.9$ & $2.21 {\times} 10 ^{-5}$ &
-$183.683$ & $54061.6$ & $3.40 {\times} 10 ^{-3}$ & $0.9226949$ & $47502.7$ & $1.94 {\times} 10 ^{-5}$ \\ \hline
+	$940.377$ & $197127165$ & $4.77 {\times} 10^{-06}$ & $90.239$ & $75420$ & $1.20 {\times} 10^{-03}$ & $0.047$ & $13559$ & $3.50 {\times} 10^{-06}$ \\
+	$532.020$ & $109697363$ & $4.85 {\times} 10^{-06}$ & $74.886$ & $62704$ & $1.19 {\times} 10^{-03}$ & $0.192$ & $56383$ & $3.41 {\times} 10^{-06}$ \\
+	$396.583$ & $82924728$ & $4.78 {\times} 10^{-06}$ & $56.735$ & $47416$ & $1.20 {\times} 10^{-03}$ & $0.046$ & $13664$ & $3.39 {\times} 10^{-06}$ \\
+	$362.203$ & $80521418$ & $4.50 {\times} 10^{-06}$ & $41.290$ & $34596$ & $1.19 {\times} 10^{-03}$ & $0.162$ & $47742$ & $3.40 {\times} 10^{-06}$ \\
+	$967.890$ & $207963652$ & $4.65 {\times} 10^{-06}$ & $69.359$ & $58123$ & $1.19 {\times} 10^{-03}$ & $0.090$ & $26547$ & $3.40 {\times} 10^{-06}$ \\
+	$1016.540$ & $245737655$ & $4.14 {\times} 10^{-06}$ & $64.457$ & $53560$ & $1.20 {\times} 10^{-03}$ & $0.118$ & $34715$ & $3.41 {\times} 10^{-06}$ \\
+	$553.971$ & $112170109$ & $4.94 {\times} 10^{-06}$ & $80.789$ & $67624$ & $1.19 {\times} 10^{-03}$ & $0.261$ & $76657$ & $3.40 {\times} 10^{-06}$ \\
+	$966.339$ & $204832370$ & $4.72 {\times} 10^{-06}$ & $138.294$ & $115846$ & $1.19 {\times} 10^{-03}$ & $0.358$ & $105149$ & $3.40 {\times} 10^{-06}$ \\
+	$1787.020$ & $384044065$ & $4.65 {\times} 10^{-06}$ & $84.924$ & $70978$ & $1.20 {\times} 10^{-03}$ & $0.121$ & $35434$ & $3.42 {\times} 10^{-06}$ \\
+	$1232.380$ & $277204528$ & $4.45 {\times} 10^{-06}$ & $92.610$ & $77517$ & $1.19 {\times} 10^{-03}$ & $0.260$ & $76285$ & $3.41 {\times} 10^{-06}$ \\ \hline
+	$875.533$ & $190222305.3$ & $4.60 {\times} 10^{-06}$ & $79.358$ & $66378.4$ & $1.20 {\times} 10^{-03}$ & $0.166$ & $48613.5$ & $3.41 {\times} 10^{-06}$ \\ \hline
     \end{tabular}
     \caption{Resultados del juego Coronel Blotto}
     \label{tab:resultados-coronel-blotto}
@@ -249,8 +246,8 @@ $183.683$ & $54061.6$ & $3.40 {\times} 10 ^{-3}$ & $0.9226949$ & $47502.7$ & $1.
 \caption{Gráficas del regret con respecto al número de iteraciones del juego Coronel Blotto}
 \label{fig:regret-coronel-blotto}
 \centering
-\includegraphics[width=0.4\textwidth]{graficas/coronel-blotto/procedimiento-B.png}
-\includegraphics[width=0.4\textwidth]{graficas/coronel-blotto/procedimiento-C.png}
+\includegraphics[width=0.327\textwidth]{graficas/coronel-blotto/procedimiento-A.png}
+\includegraphics[width=0.327\textwidth]{graficas/coronel-blotto/procedimiento-B.png}
+\includegraphics[width=0.327\textwidth]{graficas/coronel-blotto/procedimiento-C.png}
 \end{figure}
-
 \newpage

diff --git a/capitulo-2/kuhn_poker.tex b/capitulo-2/kuhn_poker.tex
@@ -1,34 +1,35 @@
 \section{Resolver el Juego Kuhn Poker}
 
-Para resolver este juego se utilizó el procedimiento de Regret Matching con regret incondicional, el cual es el más eficiente de los $3$ procedimientos descritos. Sin embargo, para poder aplicar este algoritmo es necesario llevar el juego a su forma normal, como se describe en la sección \ref{subsec:FN-FE}. Se realizó una corrida para obtener una estrategia hasta obtener un regret menor que $5 {\times} 10^{-5}$. El tiempo total fue de $144.863$ segundos, y el número total de iteraciones fue de $4362649$. La Figura \ref{fig:regret-kuhn-poker} muestra el regret con respecto al número de iteraciones.
+Para resolver este juego se utilizó el procedimiento de Regret Matching con \textit{regret} incondicional, el cual es el más eficiente de los $3$ procedimientos descritos. Sin embargo, para poder aplicar este algoritmo es necesario llevar el juego a su forma normal, como se describe en la sección \ref{subsec:FN-FE}. Se realizó una corrida para obtener una estrategia hasta obtener un \textit{regret} menor que $10^{-5}$. El tiempo total fue de $3707.72$ segundos, y el número total de iteraciones fue de $535296954$. La Figura \ref{fig:regret-kuhn-poker} muestra el \textit{regret} con respecto al número de iteraciones. Se observa la convergencia a cero para ambos parámetros cuando el número de iteraciones tiende a infinito.
 
 \begin{figure}[ht]
-\caption{Gráfica del regret con respecto al número de iteraciones del juego Kuhn Poker}
+\caption{Gráfica del \textit{regret} con respecto al número de iteraciones del juego Kuhn Poker}
 \label{fig:regret-kuhn-poker}
 \centering
-\includegraphics[width=0.4\textwidth]{graficas/kuhn-poker/grafica-kuhn-poker.png}
+\includegraphics[width=1\textwidth]{graficas/kuhn/procedimiento-C.png}
 \end{figure}
 
-Para mostrar la estrategia obtenida, es necesario encontrar una estrategia de comportamiento equivalente a la estrategia mixta obtenida del algoritmo de Regret Matching, como se describe en la sección \ref{subsec:EC-EM}. La Tabla \ref{tab:estrategia-kuhn-poker} muestra el equilibrio de Nash (parametrizados con el valor $\alpha$) y la estrategia obtenida del procedimiento. Se puede observar que la estrategia obtenida aproxima a un equilibrio de Nash con $\alpha \approx 0.253175$.
+Para mostrar la estrategia obtenida, es necesario encontrar una estrategia de comportamiento equivalente a la estrategia mixta obtenida del algoritmo de \textit{Regret Matching}, como se describe en la sección \ref{subsec:EC-EM}. La Tabla \ref{tab:estrategia-kuhn-poker} muestra el equilibrio de Nash (parametrizado con la variable $\alpha$) y la estrategia obtenida del procedimiento. Se puede observar que la estrategia obtenida aproxima a un equilibrio de Nash con $\alpha \approx 0.249125$.
 
-\begin{table}[]
+\begin{table}[ht]
     \centering
     \begin{tabular}{c|r r| r r}
         I & \multicolumn{2}{|c|}{Equilibrio de Nash} & \multicolumn{2}{|c}{Regret Matching} \\ \hline
-         $1$ & $1-\alpha$ & $\alpha$ & $0.746825$ & $0.253175$ \\
+         $1$ & $1-\alpha$ & $\alpha$ & $0.750875$ & $0.249125$ \\
          $2$ & $1$ & $0$ & $1$ & $0$ \\
          $3$ & $1$ & $0$ & $1$ & $0$ \\
-         $4$ & $\frac{2}{3}$& $\frac{1}{3}$ & $0.6667$ & $0.3333$ \\
+         $4$ & $\frac{2}{3}$& $\frac{1}{3}$ & $0.666633$ & $0.333367$ \\
          $5$ & $0$ & $1$ & $0$ & $1$ \\
          $6$ & $1$ & $0$ & $1$ & $0$ \\
          $7$ & $0$ & $1$ & $0$ & $1$ \\
-         $8$ & $\frac{2}{3}$ & $\frac{1}{3}$ & $0.6667$ & $0.3333$ \\
-         $9$ & $\frac{2}{3} - \alpha$ & $\alpha + \frac{1}{3}$ & $0.412859$ & $0.587141$ \\
+         $8$ & $\frac{2}{3}$ & $\frac{1}{3}$ & $0.666633$ & $0.333367$ \\
+         $9$ & $\frac{2}{3} - \alpha$ & $\alpha + \frac{1}{3}$ & $0.417775$ & $0.582225$ \\
         $10$ & $1$ & $0$ & $1$ & $0$ \\
-        $11$ & $1 - 3 \alpha$ & $3 \alpha$ & $0.240376$ & $0.759624$ \\
+        $11$ & $1 - 3 \alpha$ & $3 \alpha$ & $0.253224$ & $0.746776$ \\
         $12$ & $0$ & $1$ & $0$ & $1$ \\ \hline
     \end{tabular}
     \caption{Equilibrio de Nash y estrategia obtenida para el juego de Kuhn Poker}
     \label{tab:estrategia-kuhn-poker}
 \end{table}
 
+Con la estrategia calculada se obtiene que peor caso para el primer jugador es igual a $v_1 = -0.0556501$ y el peor caso para el segundo jugador es $v_2 = 0.0555501$. Estos valores están bastantes cercas a la ganancia esperada cuando se utiliza el equilibrio de Nash, que es $-1/18$ y $1/18$, respectivamente. Se puede notar que la diferencia entre la ganancia esperada utilizando un equilibrio de Nash y la obtenida con las ganancias utilizadas es no mayor a $10 ^ {-4}$.

diff --git a/capitulo-2/analisis-procedimientos.tex b/capitulo-2/analisis-procedimientos.tex
@@ -30,9 +30,9 @@ La Tabla \ref{tab:resumen-iteraciones} muestra un resumen de las iteraciones pro
     \centering
     \begin{tabular}{c|r|r|r|r}
        \scriptsize{Procedimiento}  & \scriptsize{Matching Pennies} & \scriptsize{Piedra, Papel o Tijeras} & \multicolumn{1}{c|}{\scriptsize{Domino}} & \multicolumn{1}{c}{\scriptsize{Coronel Blotto}}  \\ \hline
-       A & $5609971.5$ & $3671952.7$ & $91116271.5$ & $201963700.9$ \\
-       B & $30277.9$   & $10007.0$ & $63267.8$ & $54061.6$ \\
-       C & $14806.8$   & $30293.6$ & $95233.3$ & $47502.7$ \\ \hline
+       A & $3892550.4$ & $4519054.1$ & $108319272.4$ & $190222305.3$ \\
+       B & $25616.6$   & $6601.3$ & $75250.2$ & $66378.4$ \\
+       C & $16260.5$   & $19321.1$ & $84318.5$ & $48613.5$ \\ \hline
     \end{tabular}
     \caption{Resumen del número de iteraciones promedio}
     \label{tab:resumen-iteraciones}
@@ -46,9 +46,9 @@ La Tabla \ref{tab:resumen-tiempo} muestra un resumen del tiempo promedio de los 
     \centering
     \begin{tabular}{c|r|r|r|r}
        \scriptsize{Procedimiento}  & \scriptsize{Matching Pennies} & \scriptsize{Piedra, Papel o Tijeras} & \multicolumn{1}{c|}{\scriptsize{Domino}} & \multicolumn{1}{c}{\scriptsize{Coronel Blotto}}  \\ \hline
-       A & $85.314$ & $56.231$ & $1520.421$ & $4460.876$ \\
-       B & $3.503$   & $1.732$ & $28.381$ & $183.683$ \\
-       C & $0.217$   & $0.449$ & $1.510$ & $0.923$ \\ \hline
+       A & $10.276$ & $12.198$ & $319.179$ & $875.533$ \\
+       B & $0.777$   & $0.345$ & $11.275$ & $79.358$ \\
+       C & $0.042$   & $0.049$ & $0.237$ & $0.166$ \\ \hline
     \end{tabular}
     \caption{Resumen del tiempo promedio}
     \label{tab:resumen-tiempo}
